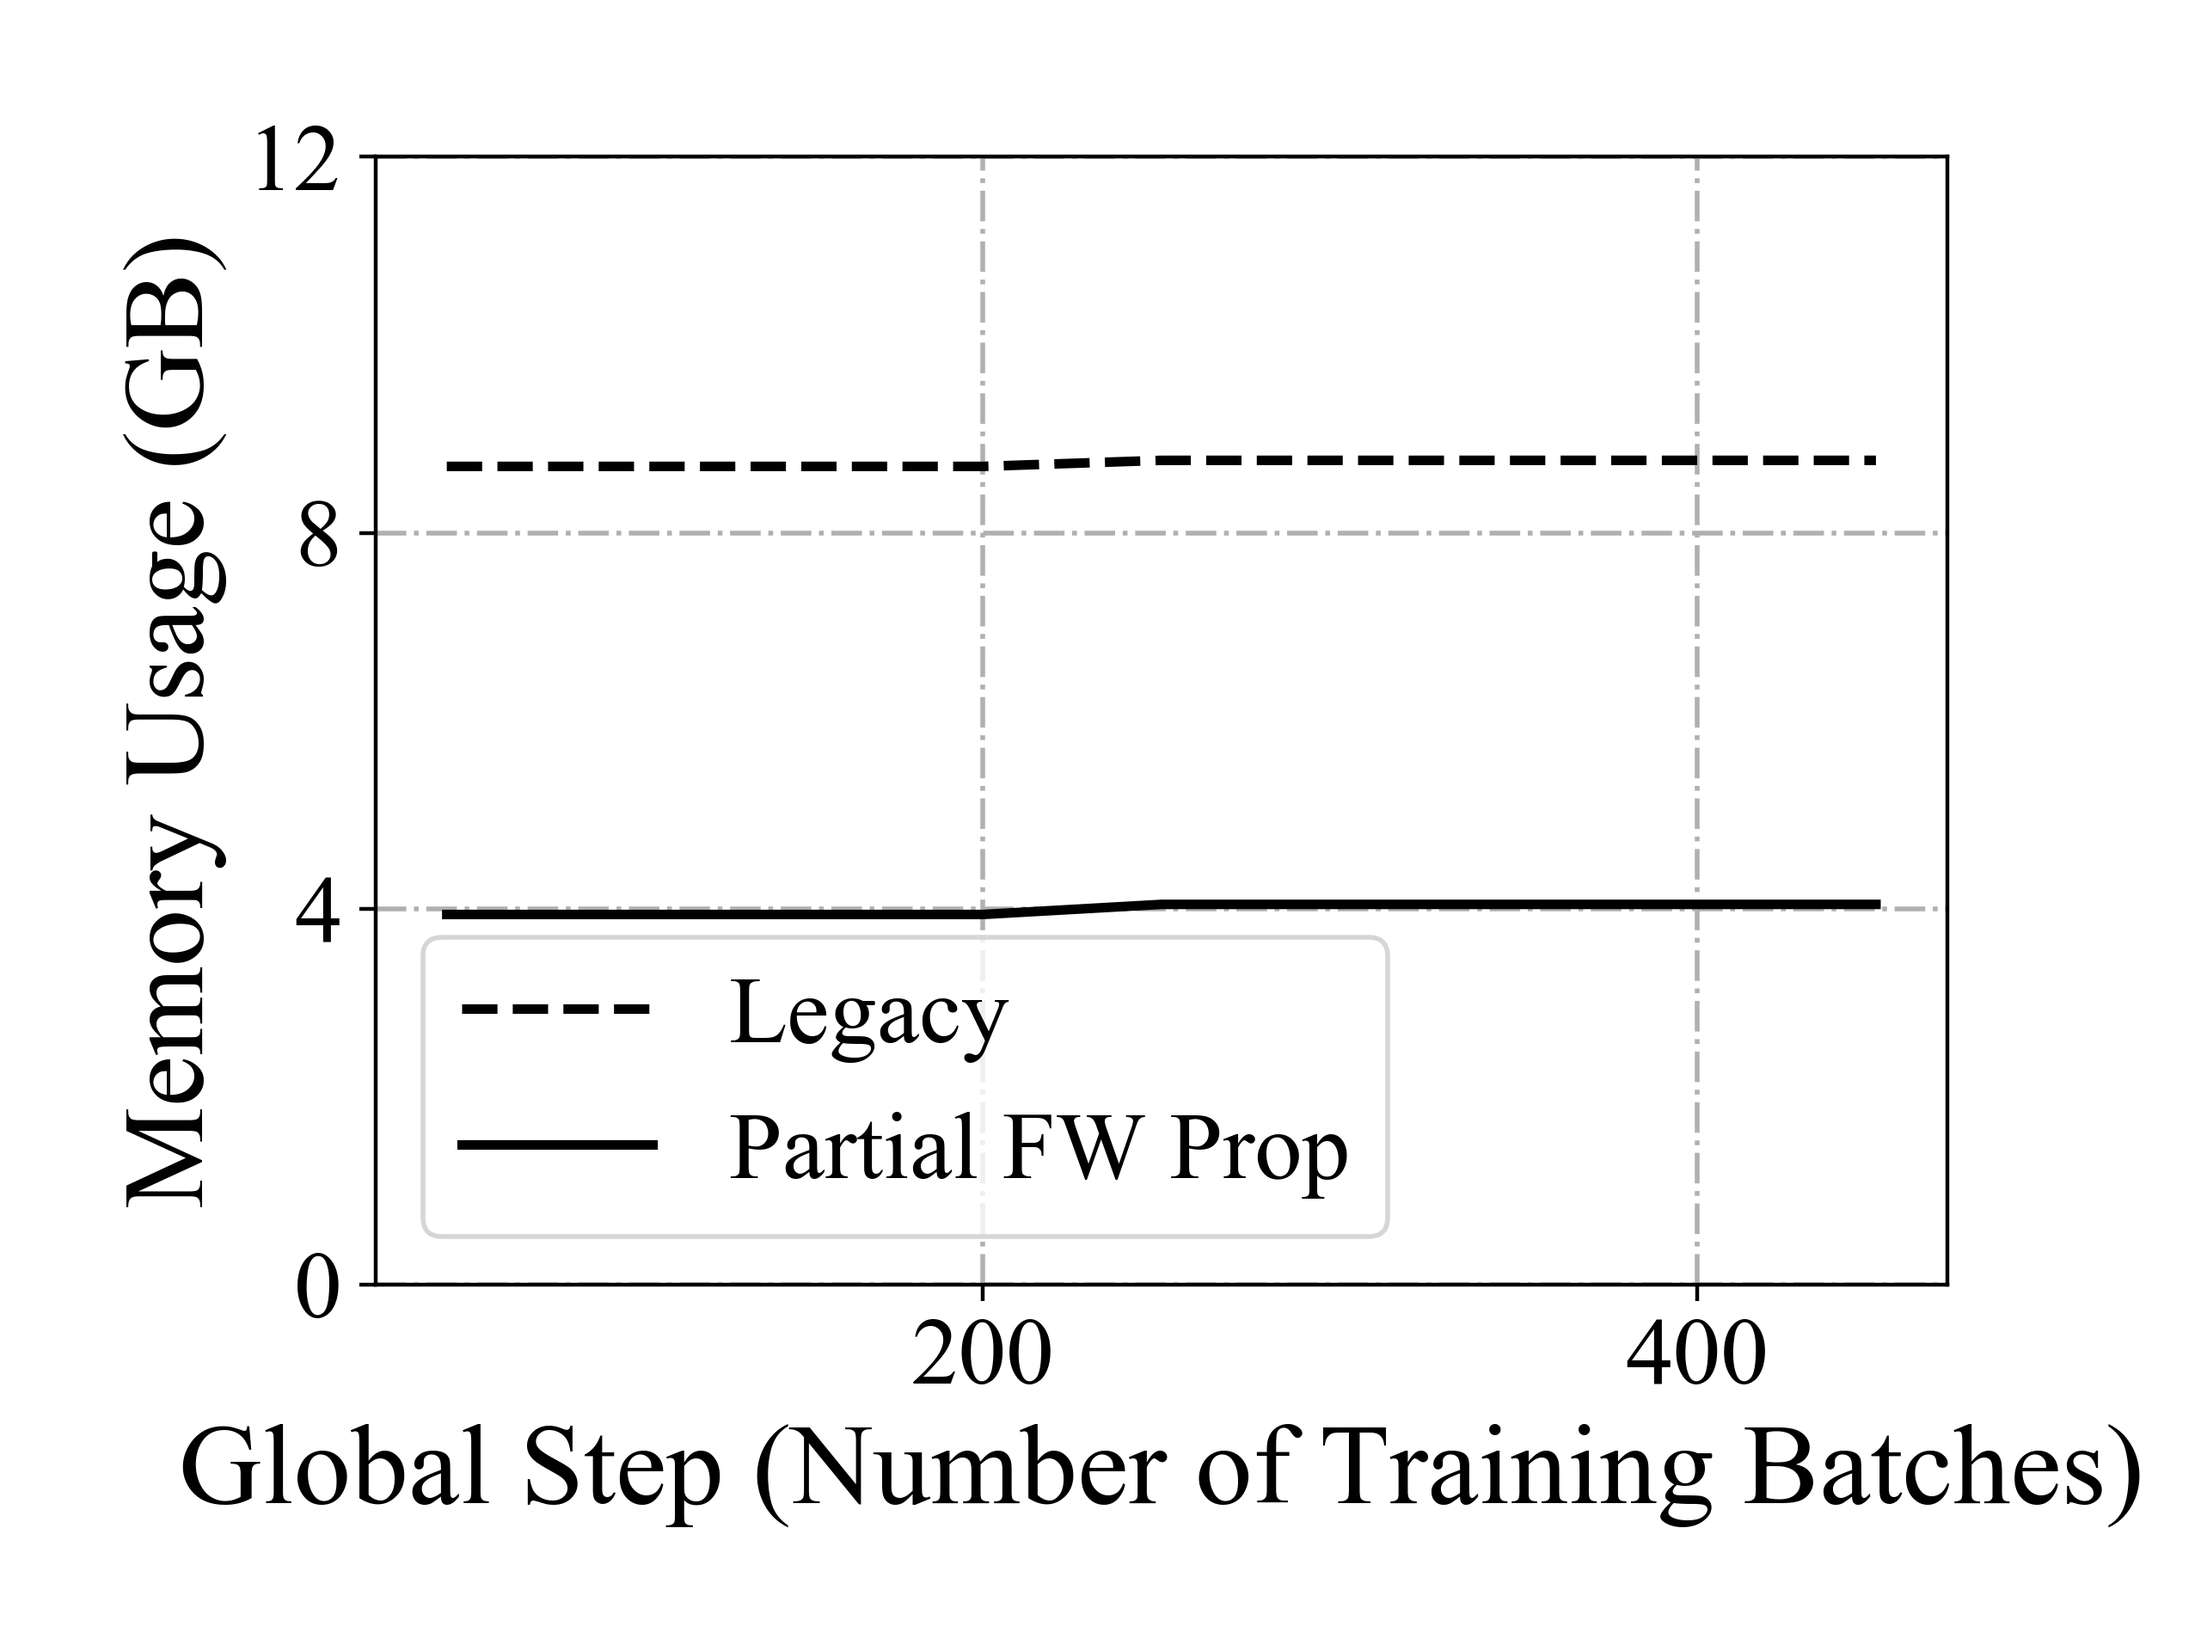
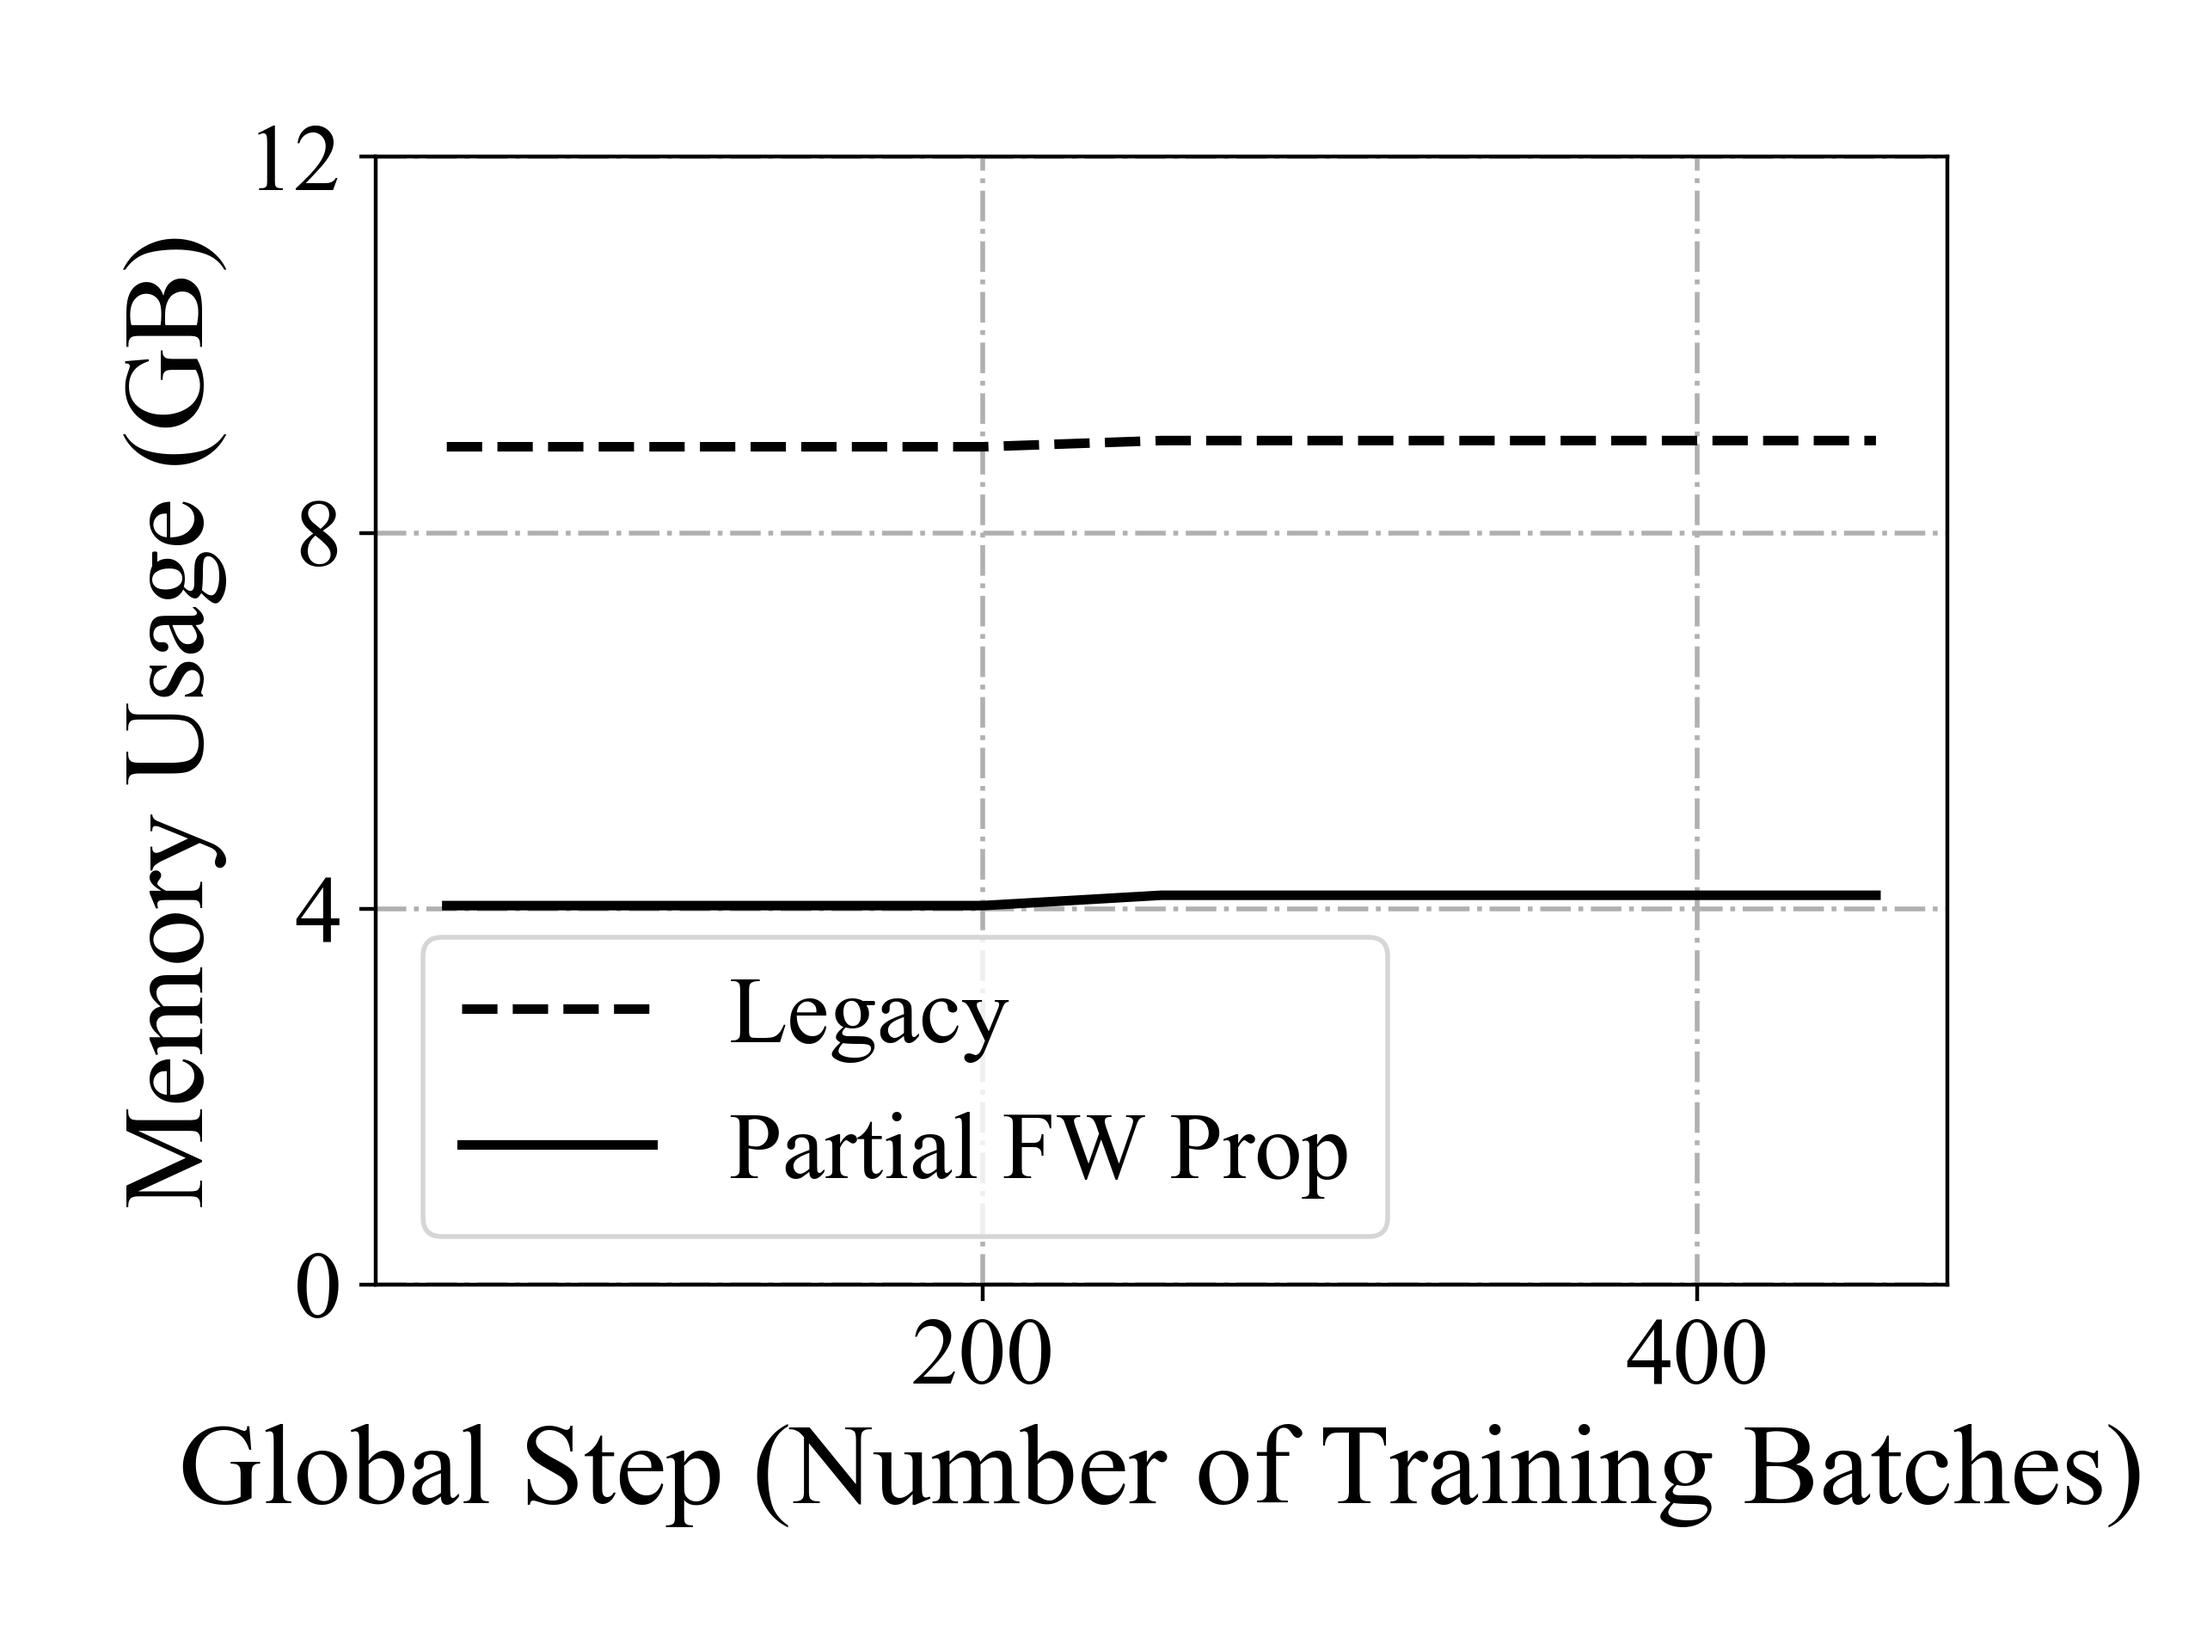
Renormalized the memory units.

Changed region(s): [[0.1875, 0.25, 0.8438, 0.3125], [0.1875, 0.5312, 0.875, 0.5625]]

diff --git a/workspace/results/tensorboard/visualizer.py b/workspace/results/tensorboard/visualizer.py
@@ -41,8 +41,8 @@ def plt_legacy_vs_partial_fw_prop(csv_prefix, metric, metric_unit=None, ymin=Non
     partial = gen_from_txt(fname='%s-partial_fw_prop/csv/%s.csv' % (csv_prefix, metric))
 
     if metric == 'memory_usage' and metric_unit == 'GB':
-        legacy [:,2] = legacy [:,2] / 1024
-        partial[:,2] = partial[:,2] / 1024
+        legacy [:,2] = legacy [:,2] / 1000
+        partial[:,2] = partial[:,2] / 1000
     
     plt.figure()
 
